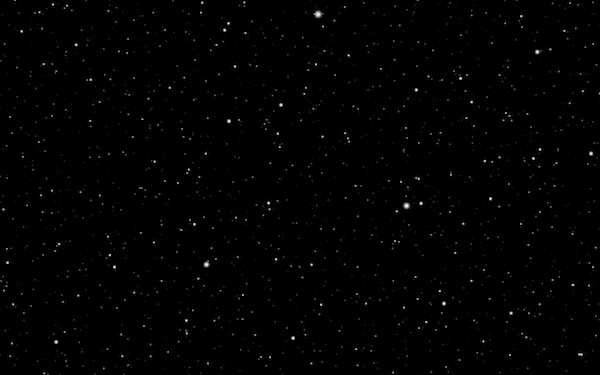
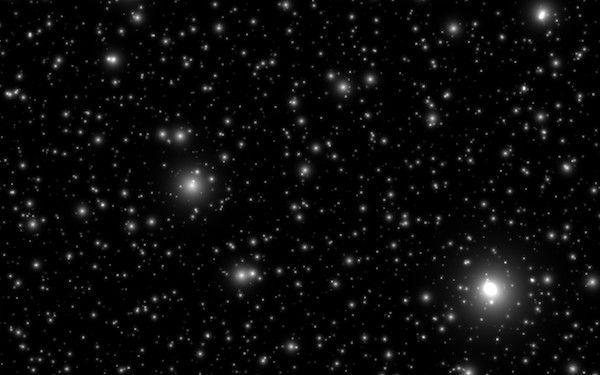
website

diff --git a/projects/shaders/stars/stars.js b/projects/shaders/stars/stars.js
@@ -49,13 +49,13 @@ void main(){
   //The ratio of the width and height of the screen
   float widthHeightRatio = resolution.x/resolution.y;
 
-  float t = time * 0.1;
+  float t = time * 0.01;
   float dist = 0.0;
   const float layers = 16.0;
   float scale = 32.0;
   float depth;
-  float size;
-  float rotationAngle = time * 0.2;
+  float phase;
+  float rotationAngle = time * -0.01;
 
   vec2 offset;
   vec2 local_uv;
@@ -64,7 +64,8 @@ void main(){
   vec2 seed;
   vec2 centre = vec2(0.5, 0.5);
 
-  mat2 rotation = mat2(cos(rotationAngle), -sin(rotationAngle), sin(rotationAngle),  cos(rotationAngle));
+  mat2 rotation = mat2(cos(rotationAngle), -sin(rotationAngle), 
+      sin(rotationAngle),  cos(rotationAngle));
 
   for(float i = 0.0; i < layers; i++){
     depth = fract(i/layers + t);
@@ -91,12 +92,12 @@ void main(){
     //Get a random position for the local cell
     pos = 0.8 * (random2(seed) - 0.5);
 
-    //Get a random size
-    size = 0.01 + 0.02*random(seed);
+    //Get a random phase
+    phase = 128.0 * random(seed);
 
     //Get distance to the generated point, add fading to distant points
     //Add the distance to the sum
-    dist += smoothstep(size, 0.0, length(local_uv-pos)) * min(1.0, depth*2.0);
+    dist += pow(1.0-length(local_uv-pos), 50.0 + 20.0 * sin(phase + 3.0 * time)) * min(1.0, depth*2.0);
   }
 
   gl_FragColor = vec4(vec3(dist),1.0);
